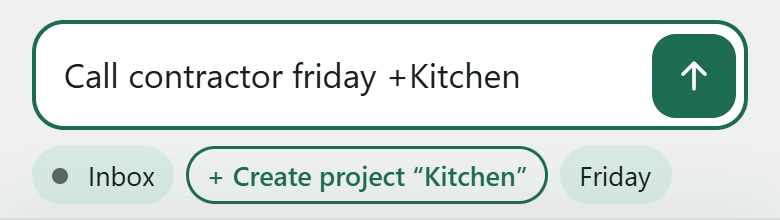
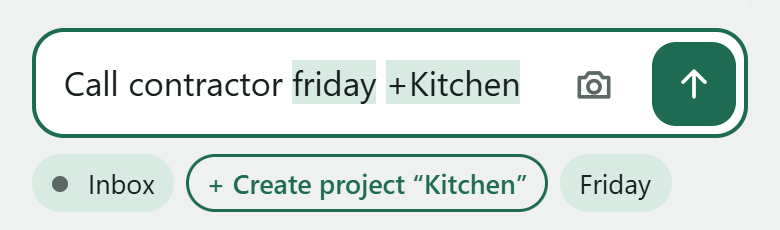
Add a demo GIF to the README, and retake every screenshot
scripts/demo.mjs (npm run demo, with npm run dev running) drives the
real app in a phone-sized browser with made-up tasks for two users of
its own, and the page's clock fixed at Wednesday 30 September 2026,
10:05, so the pictures come out the same each time. It writes a 16 s
looping GIF (quick add, progress, ticking off) and retakes the
screenshots of Pocket and of Vikunja's web app. Frames are encoded with
gifenc, keeping only the pixels that change, so the GIF is about 0.3 MB.

diff --git a/README.md b/README.md
@@ -4,6 +4,8 @@ A single-file mobile web app for [Vikunja](https://vikunja.io), served by Vikunj
 
 Vikunja's web app works on a phone, but it's built for a bigger screen. Pocket is a small companion for what you need on the go: seeing what's due and adding tasks quickly. Projects, boards, sharing and settings stay in Vikunja.
 
+<p align="center"><img src="docs/screenshots/pocket-demo.gif" width="300" alt="Pocket on a phone. Typing 'Call Ana at 4pm +work !3' highlights the words it reads, chips show Work, Today 4:00 PM and Priority 3, and the task appears under Today. Then a finger holds a task and slides it to 60% progress, and ticks off another, which slides away with an Undo."></p>
+
 It isn't an app from an app store or a service you sign up for. Pocket is one readable HTML file and a plugin of about 100 lines. Your own Vikunja serves both, and you can read every line before you install it.
 
 <sub>Pocket is an unofficial companion, not made by the Vikunja team. Please report problems with it here, not to Vikunja.</sub>
@@ -78,7 +80,7 @@ A token is kept by Pocket alone, so signing in or out of Vikunja's web app doesn
 
 Quick add uses the prefixes and phrases of Vikunja's [Quick Add Magic](https://vikunja.io/help/quick-add-magic/), and follows your setting for it in Vikunja: the prefixes below, Todoist-style ones (`#project`, `@label`, `+person`), or none. As you type, the words it reads are highlighted in the box, and chips under the box show what will be saved.
 
-<img src="docs/screenshots/pocket-capture.png" width="320" alt="Typing 'Call Ana Friday at 10 +work !3' shows chips for Work, Friday 10:00 AM and Priority 3">
+<img src="docs/screenshots/pocket-capture.png" width="320" alt="Typing 'Call Ana Friday at 10 +work !3' highlights 'Friday at 10', '+work' and '!3', and chips show Work, Friday 10:00 AM and Priority 3">
 
 | Type | Sets |
 |---|---|
@@ -129,7 +131,7 @@ The phrases and their meanings come from Vikunja's own tests, so the same text g
 
 Pocket opens without a connection and shows your lists as they were last loaded. A task you add appears with a light tint and a dashed circle until it reaches Vikunja; tap × to cancel it. Waiting tasks are sent when Pocket is opened, when it comes back to the front and when the connection returns, and a connection that drops halfway doesn't add a task twice.
 
-<img src="docs/screenshots/pocket-offline.png" width="320" alt="Pocket offline: a banner saying when the list was loaded, and 'Call the plumber' tinted in Next 7 days">
+<img src="docs/screenshots/pocket-offline.png" width="320" alt="Pocket offline: a banner saying new tasks are sent once back online, and 'Call the plumber' tinted under Today, waiting to be sent">
 
 Only new tasks work offline. Ticking off or editing a task needs a connection. On an iPhone, waiting tasks are sent the next time Pocket is opened, since iPhones don't let web apps send in the background.
 

diff --git a/docs/development.md b/docs/development.md
@@ -5,7 +5,7 @@ pocket/        copy this folder into Vikunja's plugins folder
   main.go      the plugin: serves app/ at /api/v1/plugins/pocket/
   app/         the app itself; sw.js lets it open offline
 tests/         the four test files described below
-scripts/       dev.mjs: a local Vikunja with the plugin loaded
+scripts/       dev.mjs: a local Vikunja with the plugin loaded; demo.mjs: the README's GIF and screenshots
 docs/          this file and the README's screenshots
 ```
 
@@ -40,6 +40,10 @@ VIKUNJA_URL=https://tasks.example.com VIKUNJA_TOKEN=tk_... npm test
 ```
 
 The tests delete what they create, except a `pocket-smoke` label that the end-to-end test reuses on later runs, since Task Management tokens can't delete labels. With a token that can't create projects, the project step is skipped.
+
+## The README's GIF and screenshots
+
+With `npm run dev` running, `npm run demo` remakes `docs/screenshots/pocket-demo.gif` and the screenshots of Pocket and of Vikunja's web app. It drives the real app in a phone-sized browser, with made-up tasks for two users of its own, `alex` and `priya`, and the page's clock fixed at Wednesday 30 September 2026, 10:05, so the dates in the pictures always match the README. Run it after changing how Pocket looks. `FRAMES=<folder>` also saves the GIF's frames as images, to check them one by one.
 
 ## Upgrading the libraries
 
